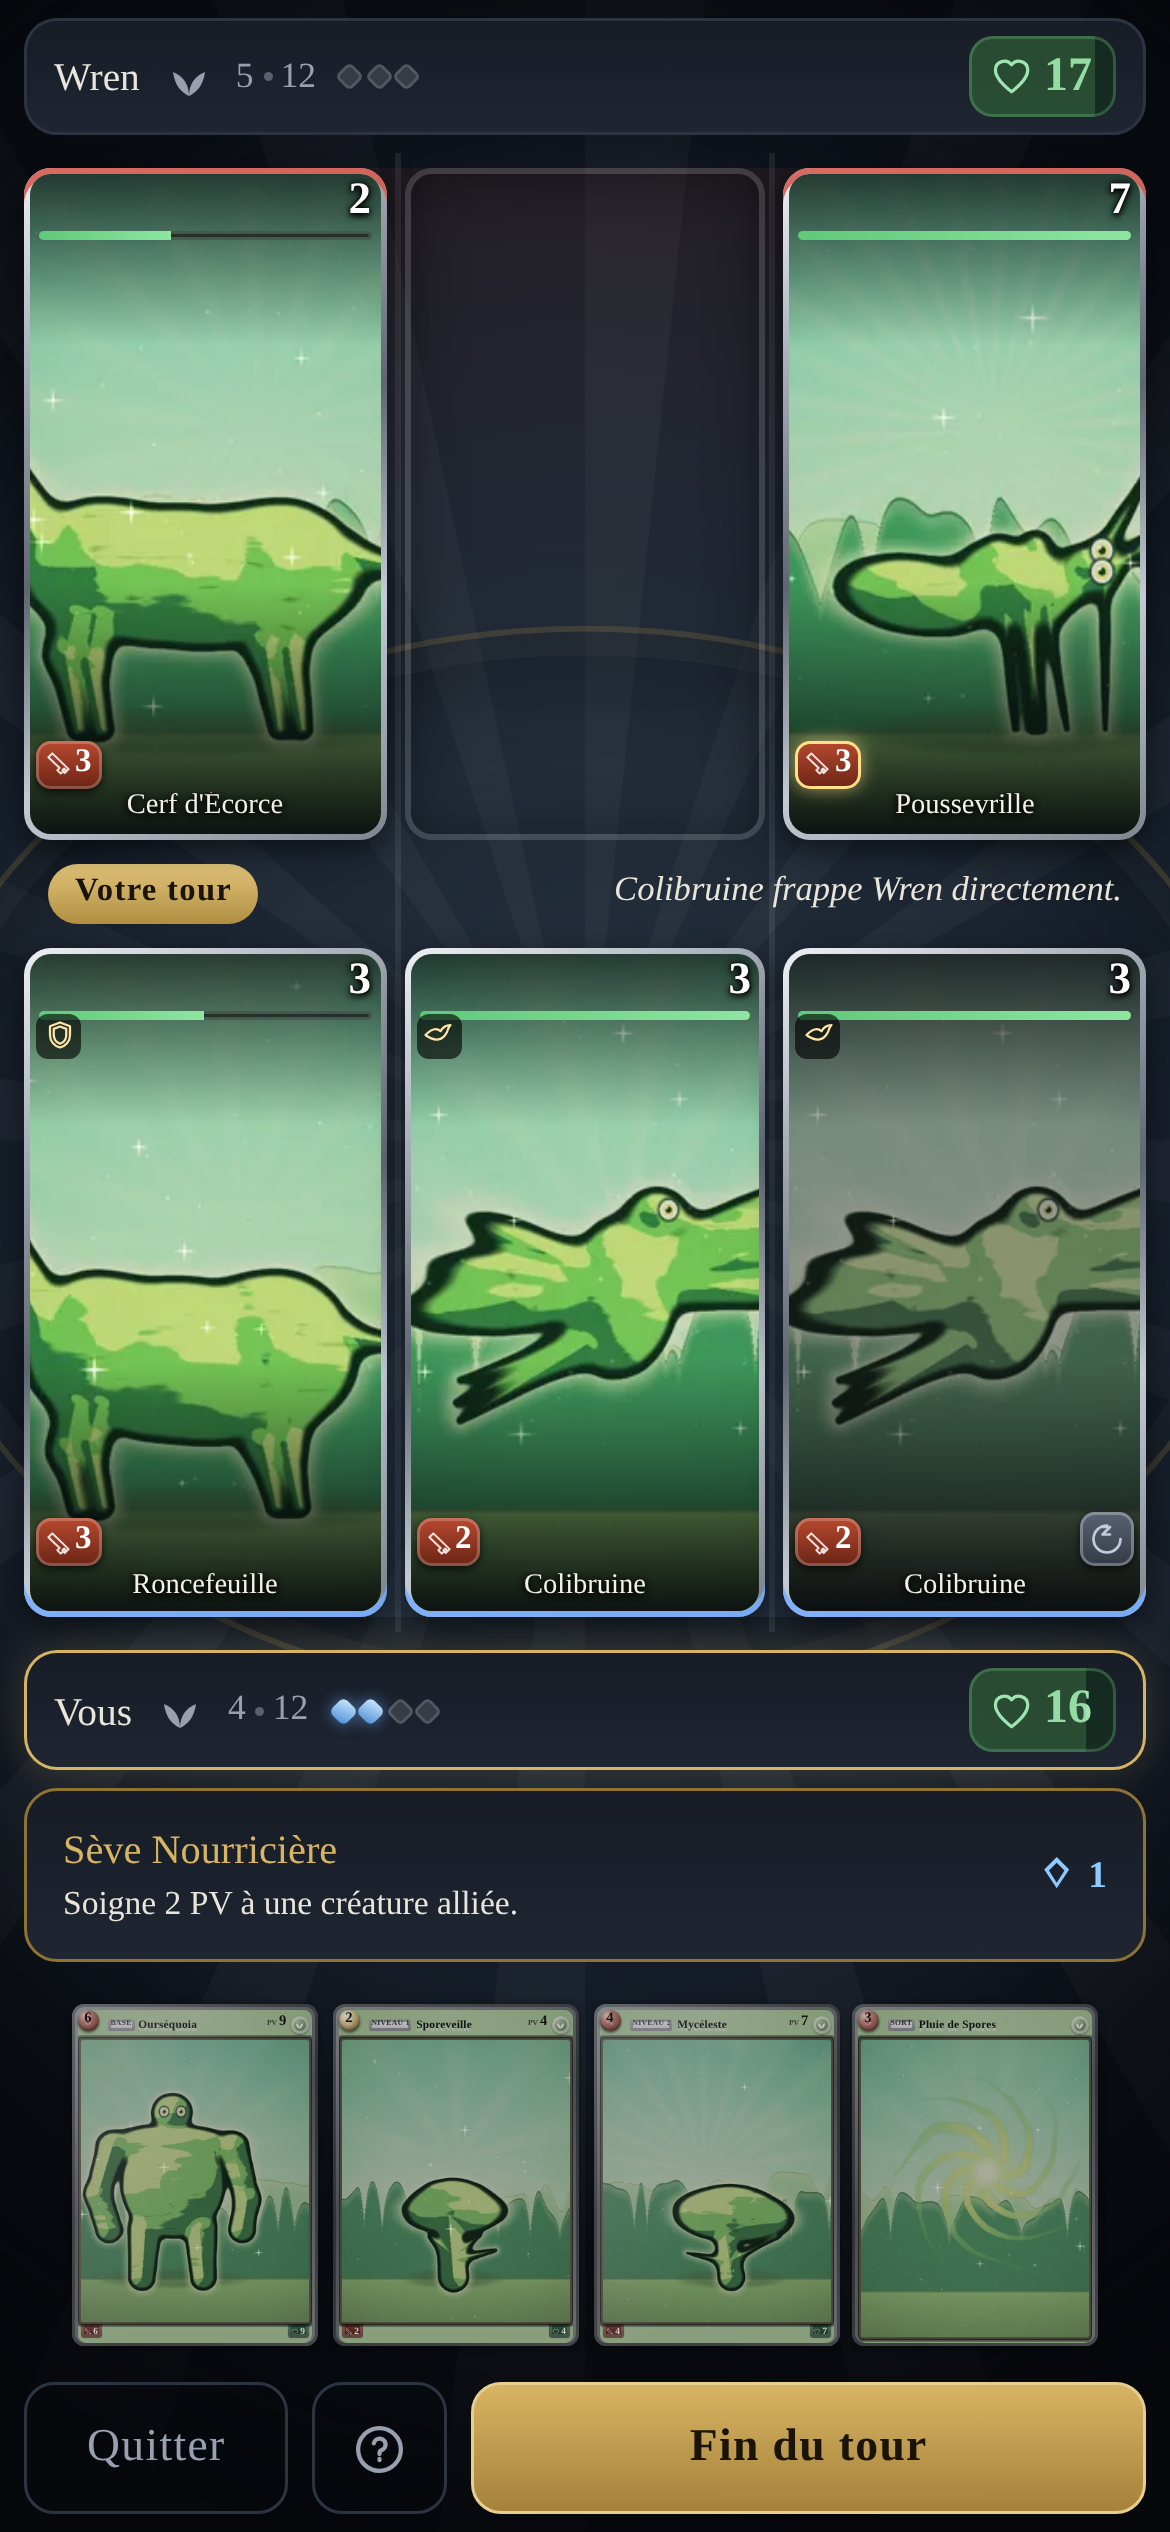
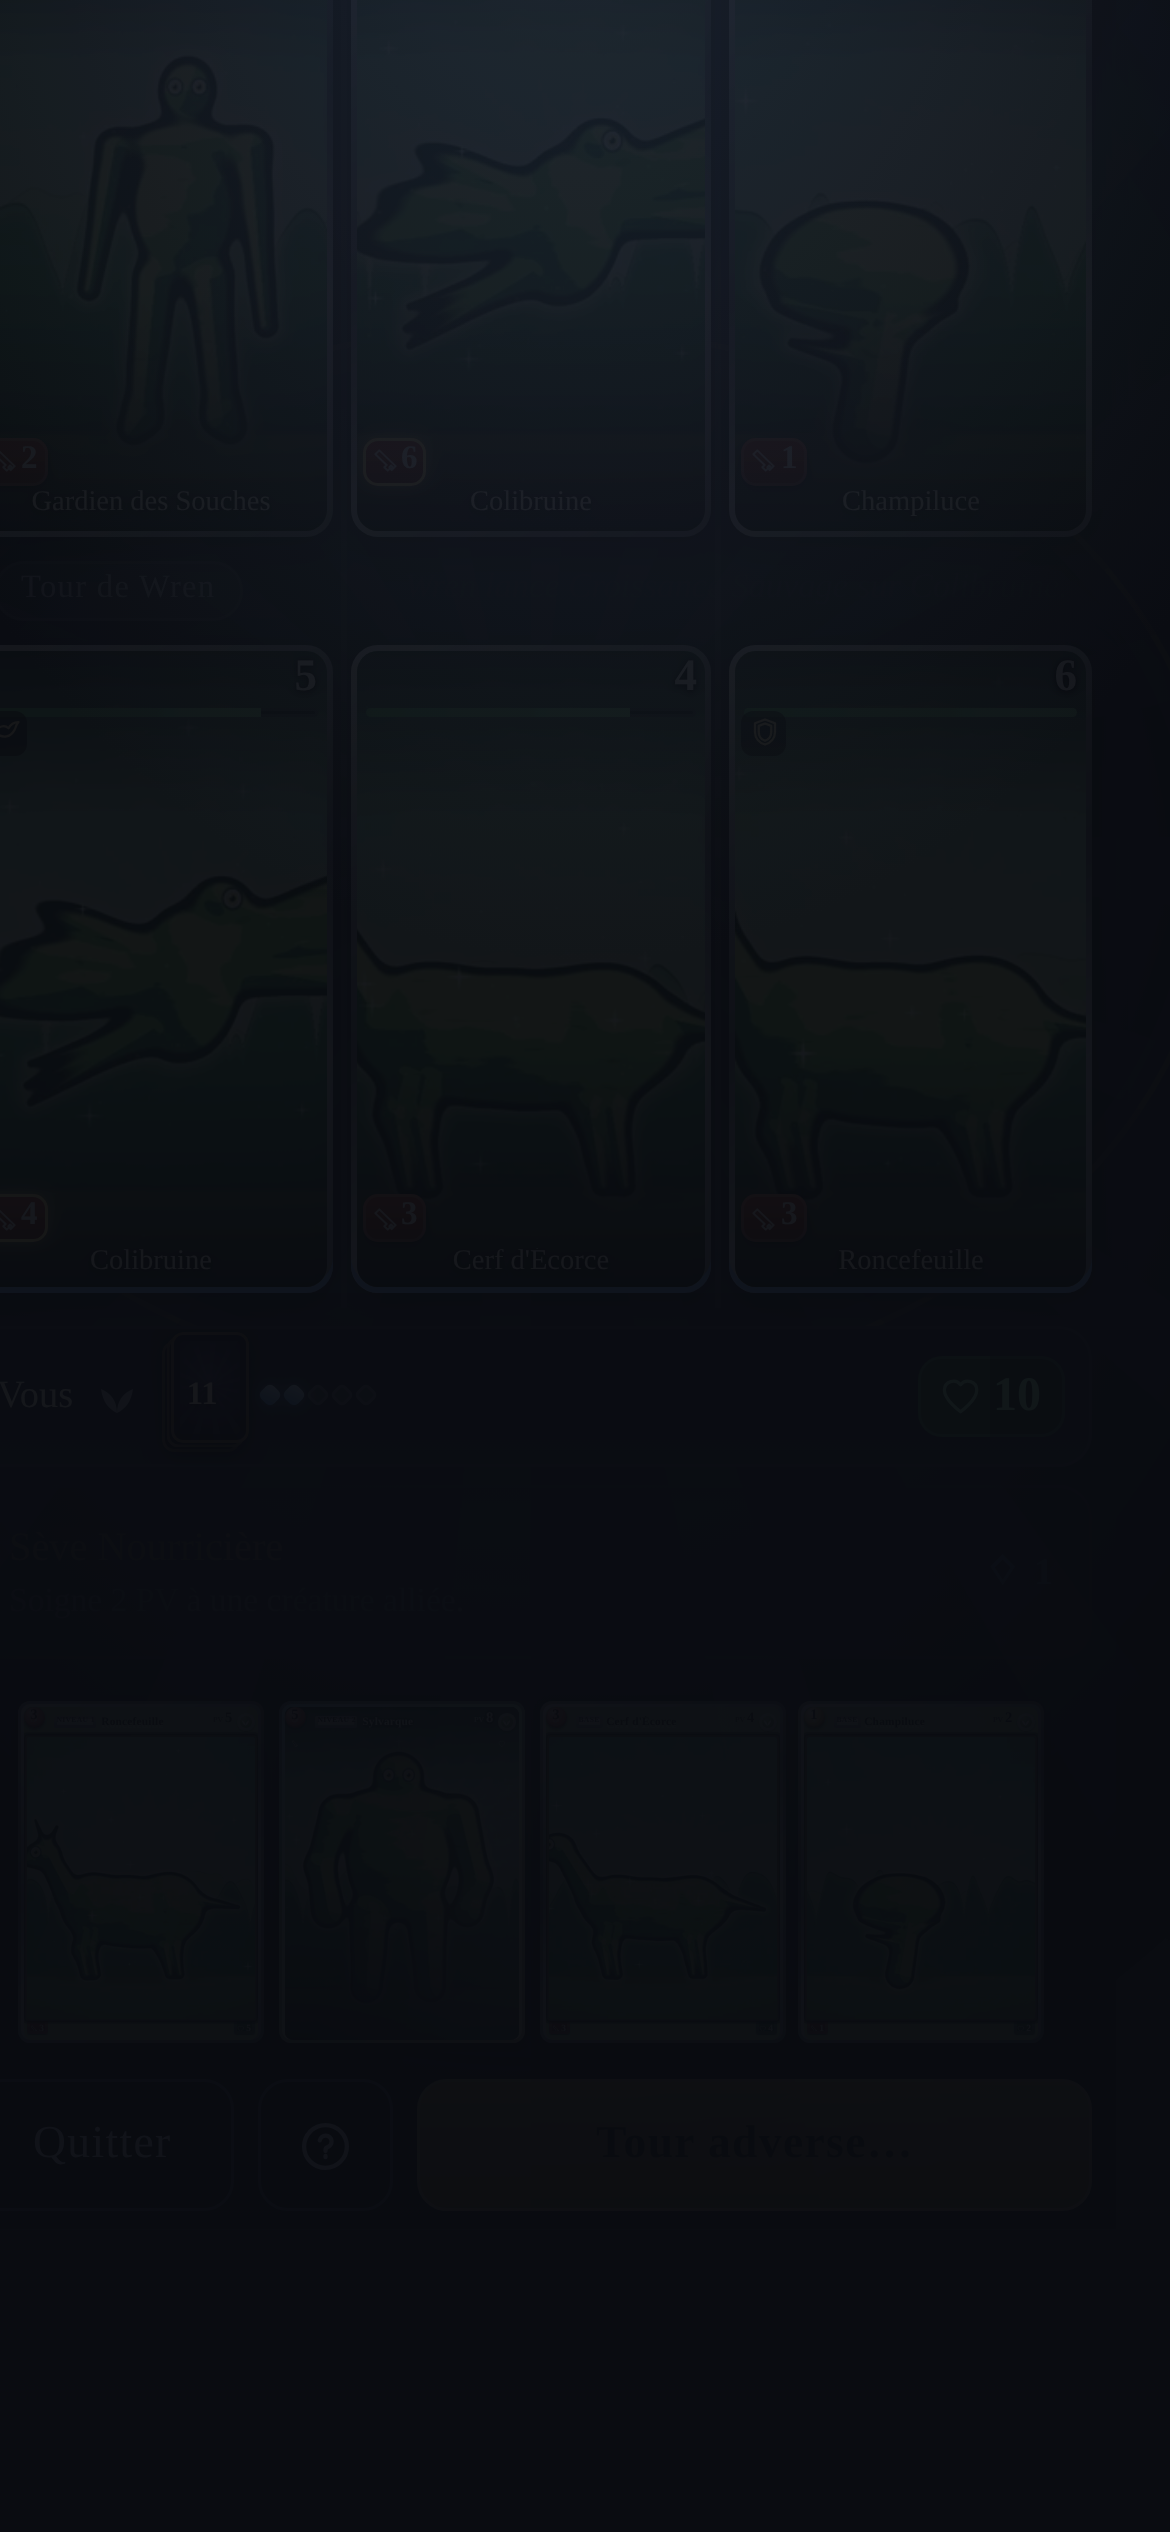
Prépare l'habillage par textures, et corrige l'accord du journal
Dos de carte, piles et main adverse
- Le dos est dessiné en CSS mais une texture déposée dans public/cadres/ prend
  le dessus : la feuille de style empile l'image par-dessus le dégradé, qui
  reste visible tant que le fichier manque. Aucun code n'a donc à tester la
  présence d'un asset, et le supprimer revient en arrière.
- Les barres de héros portent désormais la pile de deck avec son compte, et
  celle de l'adversaire montre sa main en éventail de dos : le nombre de cartes
  qui lui restent se lit d'un coup d'œil, ce qui donne le rythme de la partie.

Gabarit de cadre
- npm run art:gabarit produit une image de référence aux dimensions exactes,
  zones réservées comprises, plus un geometrie.json lisible par un programme.
  Un cadre dessiné par-dessus s'intègre sans retouche.

Journal
- Le joueur est désigné par « Vous », qui appelle la deuxième personne du
  pluriel : le journal écrivait « Vous lance Croissance Sauvage ». Les verbes
  sont maintenant conjugués selon le point de vue.

diff --git a/src/ui/styles.css b/src/ui/styles.css
@@ -509,15 +509,15 @@ img { display: block; max-width: 100%; }
 }
 
 .heros {
-  display: flex; align-items: center; gap: 8px;
-  padding: 6px 10px;
+  display: flex; align-items: center; gap: 7px;
+  padding: 5px 9px;
   border-radius: 11px;
   background: linear-gradient(180deg, var(--panneau), var(--panneau-2));
   box-shadow: inset 0 0 0 1px var(--bord);
 }
 .heros.est-actif { box-shadow: inset 0 0 0 1px var(--or), 0 0 14px rgb(215 180 99 / 20%); }
 .heros.est-ciblable { box-shadow: inset 0 0 0 2px var(--danger), 0 0 18px rgb(217 83 79 / 45%); cursor: pointer; animation: pulsation 1.2s ease-in-out infinite; }
-.heros__nom { font-family: 'Cinzel', serif; font-size: .82rem; overflow: hidden; text-overflow: ellipsis; white-space: nowrap; max-width: 8em; }
+.heros__nom { font-family: 'Cinzel', serif; font-size: .8rem; overflow: hidden; text-overflow: ellipsis; white-space: nowrap; max-width: 6.2em; flex: none; }
 .heros__terrain { display: inline-flex; color: var(--texte-attenue); }
 .heros__terrain svg { width: 1em; height: 1em; fill: currentColor; stroke: none; }
 .heros__pioche { display: inline-flex; align-items: center; gap: 3px; font-size: .74rem; color: var(--texte-attenue); font-variant-numeric: tabular-nums; }
@@ -546,9 +546,9 @@ img { display: block; max-width: 100%; }
 .heros__pv svg, .heros__pv { z-index: 1; }
 
 /* Cristaux : des pastilles, pas une fraction à calculer de tête. */
-.cristaux { display: inline-flex; gap: 2.5px; align-items: center; }
+.cristaux { display: inline-flex; gap: 2px; align-items: center; flex: none; }
 .cristaux i {
-  width: 7px; height: 7px; border-radius: 2px; transform: rotate(45deg);
+  width: 6px; height: 6px; border-radius: 2px; transform: rotate(45deg);
   background: rgb(255 255 255 / 12%);
   box-shadow: inset 0 0 0 1px rgb(255 255 255 / 14%);
 }
@@ -1045,3 +1045,54 @@ img { display: block; max-width: 100%; }
 
 .bouton--icone { min-width: 44px; padding: 0 12px; }
 .bouton--icone svg { width: 1.25em; height: 1.25em; }
+
+/* --- 10. Dos de carte, piles et éventail adverse -------------------------- */
+
+/* Le motif est dessiné en CSS ; une texture déposée dans public/cadres/ le
+   remplace dès qu'elle existe, sans qu'aucun code n'ait à tester sa présence :
+   l'image est simplement empilée par-dessus le dégradé. */
+.dos, .pile__couche, .eventail__carte {
+  background-image:
+    url('cadres/dos.webp'),
+    url('cadres/dos.png'),
+    repeating-conic-gradient(from 0deg at 50% 50%, rgb(255 255 255 / 4%) 0deg 8deg, transparent 8deg 24deg),
+    radial-gradient(70% 55% at 50% 42%, #3a2f52 0%, #1b1630 55%, #0d0a18 100%);
+  background-size: cover, cover, 100% 100%, 100% 100%;
+  background-position: center;
+  box-shadow: inset 0 0 0 1px rgb(215 180 99 / 45%), inset 0 0 0 3px rgb(10 8 16 / 80%), 0 2px 6px rgb(0 0 0 / 55%);
+}
+
+.dos {
+  position: relative;
+  aspect-ratio: 63 / 88; border-radius: 8px;
+  display: grid; place-items: center;
+}
+.dos__compte { font-family: 'Cinzel', serif; font-weight: 700; color: var(--or); font-size: .9rem; }
+.dos__etiquette { position: absolute; bottom: 3px; font-size: .6rem; color: var(--texte-attenue); }
+
+/* Pile : trois dos décalés suffisent à dire « il en reste ». */
+.pile {
+  position: relative; flex: none;
+  width: 26px; aspect-ratio: 63 / 88;
+}
+.pile__couche {
+  position: absolute; inset: 0;
+  border-radius: 4px;
+  transform: translate(calc(var(--i) * 1.5px), calc(var(--i) * -1.5px));
+}
+.pile__compte {
+  position: absolute; inset: 0; z-index: 2;
+  display: grid; place-items: center;
+  font-family: 'Cinzel', serif; font-weight: 700; font-size: .68rem;
+  color: #f4ead0; text-shadow: 0 1px 2px #000;
+}
+.pile.est-vide { opacity: .3; }
+
+/* Éventail adverse : ses cartes sont face cachée, mais leur nombre se voit. */
+.eventail { display: flex; justify-content: center; align-items: flex-start; height: 22px; flex: 1; min-width: 0; overflow: hidden; }
+.eventail__carte {
+  width: 15px; height: 21px; margin-inline: -3px;
+  border-radius: 3px;
+  transform: rotate(var(--a)) translateY(calc(abs(var(--a)) * 0.14));
+  transform-origin: bottom center;
+}

diff --git a/src/ui/journal.ts b/src/ui/journal.ts
@@ -25,40 +25,52 @@ function nomCreature(etat: GameState, uid: number): string {
 }
 
 /**
+ * Conjugue au bon rang : le joueur est désigné par « Vous », qui appelle la
+ * deuxième personne du pluriel, alors que l'adversaire est à la troisième.
+ * Sans cela, le journal écrit « Vous lance Croissance Sauvage ».
+ */
+function conjuguer(estLeJoueur: boolean, troisieme: string, deuxieme: string): string {
+  return estLeJoueur ? deuxieme : troisieme;
+}
+
+/**
  * Renvoie la phrase décrivant une action, ou `null` pour les actions muettes
  * (la fin de tour a son propre bandeau).
  */
-export function decrireAction(etat: GameState, action: Action): string | null {
+export function decrireAction(etat: GameState, action: Action, pointDeVue: 0 | 1 = 0): string | null {
   const j = etat.actif;
   const acteur = etat.joueurs[j].nom;
   const cible = etat.joueurs[adversaire(j)].nom;
+  const moi = j === pointDeVue;
 
   switch (action.type) {
     case 'jouer-creature':
-      return `${acteur} invoque ${nomCarteEnMain(etat, j, action.uid)} en ligne ${action.ligne + 1}.`;
+      return `${acteur} ${conjuguer(moi, 'invoque', 'invoquez')} ${nomCarteEnMain(etat, j, action.uid)} en ligne ${action.ligne + 1}.`;
 
     case 'evoluer':
       return `${nomCreature(etat, action.cibleUid)} évolue en ${nomCarteEnMain(etat, j, action.uid)}.`;
 
     case 'jouer-sort': {
       const nom = nomCarteEnMain(etat, j, action.uid);
+      const lancer = conjuguer(moi, 'lance', 'lancez');
       return action.cibleUid !== undefined
-        ? `${acteur} lance ${nom} sur ${nomCreature(etat, action.cibleUid)}.`
-        : `${acteur} lance ${nom}.`;
+        ? `${acteur} ${lancer} ${nom} sur ${nomCreature(etat, action.cibleUid)}.`
+        : `${acteur} ${lancer} ${nom}.`;
     }
 
     case 'jouer-relique':
       return `${nomCreature(etat, action.cibleUid)} s'équipe de ${nomCarteEnMain(etat, j, action.uid)}.`;
 
     case 'jouer-zone':
-      return `${acteur} déploie ${nomCarteEnMain(etat, j, action.uid)}.`;
+      return `${acteur} ${conjuguer(moi, 'déploie', 'déployez')} ${nomCarteEnMain(etat, j, action.uid)}.`;
 
     case 'pouvoir-terrain': {
       const t = getTerrain(etat.joueurs[j].terrainId);
       const nom = t?.pouvoirNom ?? 'son terrain';
+      const activer = conjuguer(moi, 'active', 'activez');
       return action.cibleUid !== undefined
-        ? `${acteur} active ${nom} sur ${nomCreature(etat, action.cibleUid)}.`
-        : `${acteur} active ${nom}.`;
+        ? `${acteur} ${activer} ${nom} sur ${nomCreature(etat, action.cibleUid)}.`
+        : `${acteur} ${activer} ${nom}.`;
     }
 
     case 'attaquer': {

diff --git a/src/ui/carte.ts b/src/ui/carte.ts
@@ -254,6 +254,43 @@ export function htmlCarte(def: CardDef, o: OptionsCarte = {}): string {
   </article>`;
 }
 
+/**
+ * Dos de carte.
+ *
+ * Le motif est dessiné en CSS, mais une image déposée dans `public/cadres/`
+ * prend le dessus si elle existe : la feuille de style empile la texture par
+ * dessus le dégradé, et le dégradé reste visible tant qu'elle est absente.
+ * Aucun test de présence n'est donc nécessaire au chargement.
+ */
+export function htmlDos(o: { compte?: number; etiquette?: string } = {}): string {
+  return `<div class="dos" aria-hidden="true">
+    ${o.compte !== undefined ? `<span class="dos__compte">${o.compte}</span>` : ''}
+    ${o.etiquette ? `<span class="dos__etiquette">${esc(o.etiquette)}</span>` : ''}
+  </div>`;
+}
+
+/**
+ * Pile de cartes : trois dos décalés, quel que soit le nombre réel. Une pile
+ * dit « il reste des cartes » ; le compte exact est écrit dessus.
+ */
+export function htmlPile(compte: number, etiquette: string): string {
+  const epaisseur = Math.min(3, compte);
+  const couches = Array.from({ length: Math.max(1, epaisseur) }, (_, i) => `<span class="pile__couche" style="--i:${i}"></span>`).join('');
+  return `<div class="pile ${compte === 0 ? 'est-vide' : ''}" title="${esc(etiquette)} : ${compte}">
+    ${couches}
+    <span class="pile__compte">${compte}</span>
+  </div>`;
+}
+
+/** Main adverse, en éventail de dos : elle donne le rythme de la partie. */
+export function htmlMainAdverse(n: number): string {
+  const cartes = Array.from({ length: Math.min(n, 8) }, (_, i) => {
+    const angle = (i - (Math.min(n, 8) - 1) / 2) * 5;
+    return `<span class="eventail__carte" style="--a:${angle}deg"></span>`;
+  }).join('');
+  return `<div class="eventail" aria-label="${n} carte(s) dans la main adverse">${cartes}</div>`;
+}
+
 // ---------------------------------------------------------------------------
 // Créature en jeu
 // ---------------------------------------------------------------------------

diff --git a/src/ui/ecrans/bataille.ts b/src/ui/ecrans/bataille.ts
@@ -29,7 +29,7 @@ import {
 import type { GameEvent, GameState } from '../../engine/types';
 import { getCard, getTerrain } from '../../data/registry';
 import { jouerTourIA, type Difficulte } from '../../engine/ai';
-import { htmlCarte, htmlCreature, esc } from '../carte';
+import { htmlCarte, htmlCreature, htmlMainAdverse, htmlPile, esc } from '../carte';
 import { ICONE_ELEMENT, ICONES, LABEL_ELEMENT } from '../icones';
 import { consigneSelection, decrireAction } from '../journal';
 import { KEYWORD_LABEL } from '../../engine/types';
@@ -108,9 +108,8 @@ export function ecranBataille(config: ConfigBataille): Ecran {
     return `<div class="heros ${actif ? 'est-actif' : ''} ${ciblable ? 'est-ciblable' : ''}" data-heros="${j}">
       <span class="heros__nom">${esc(p.nom)}</span>
       ${terrain ? `<span class="heros__terrain" title="${esc(terrain.nom)} — ${esc(terrain.passifTexte)}">${ICONE_ELEMENT[terrain.element]}</span>` : ''}
-      <span class="heros__pioche" title="${p.main.length} carte(s) en main, ${p.deck.length} dans le deck">
-        ${p.main.length}<i></i>${p.deck.length}
-      </span>
+      ${j === IA ? htmlMainAdverse(p.main.length) : ''}
+      ${htmlPile(p.deck.length, 'Deck')}
       ${htmlCristaux(p.cristaux, Math.max(1, p.cristauxMax))}
       ${prevision}
       <span class="heros__pv" title="Points de vie">

diff --git a/README.md b/README.md
@@ -89,6 +89,31 @@ Le moteur est **pur** : `applyAction(état, action)` renvoie un nouvel état et
 un journal d'événements que l'interface rejoue en animations. Tout le hasard
 passe par une graine, donc les parties sont reproductibles et testables.
 
+## Habiller les cartes avec ses propres textures
+
+Trois fichiers, déposés dans `public/cadres/`, remplacent le dessin fait en CSS :
+
+| Fichier | Rôle | Format |
+|---|---|---|
+| `dos.png` ou `dos.webp` | Dos de carte — piles de deck et main adverse | 630 × 880, opaque |
+| `cadre-<element>.png` | Cadre de la carte, un par élément | 630 × 880, **fenêtre d'illustration transparente** |
+| `holo.png` | Voile holographique des cartes rares | 630 × 880, à fondre en `screen` |
+
+Aucun code ne teste leur présence : la feuille de style empile simplement la
+texture par-dessus le dégradé, qui reste visible tant que le fichier manque.
+Déposer le fichier suffit donc à changer l'habillage, et le supprimer revient
+en arrière.
+
+```bash
+npm run art:gabarit   # écrit public/cadres/gabarit-cadre.png
+```
+
+Le gabarit montre, aux dimensions exactes, les zones réservées : illustration,
+titre et points de vie, bandeau d'évolution, texte de règles, ligne d'attaque,
+et pied Faiblesse / Résistance. Un cadre dessiné par-dessus s'intègre sans
+retouche. Les coordonnées sont aussi lisibles par un programme dans
+`public/cadres/geometrie.json`.
+
 ## Illustrer à la main, sans API
 
 Rien n'oblige à passer par une API : le jeu lit `public/art/<identifiant>.webp`,
